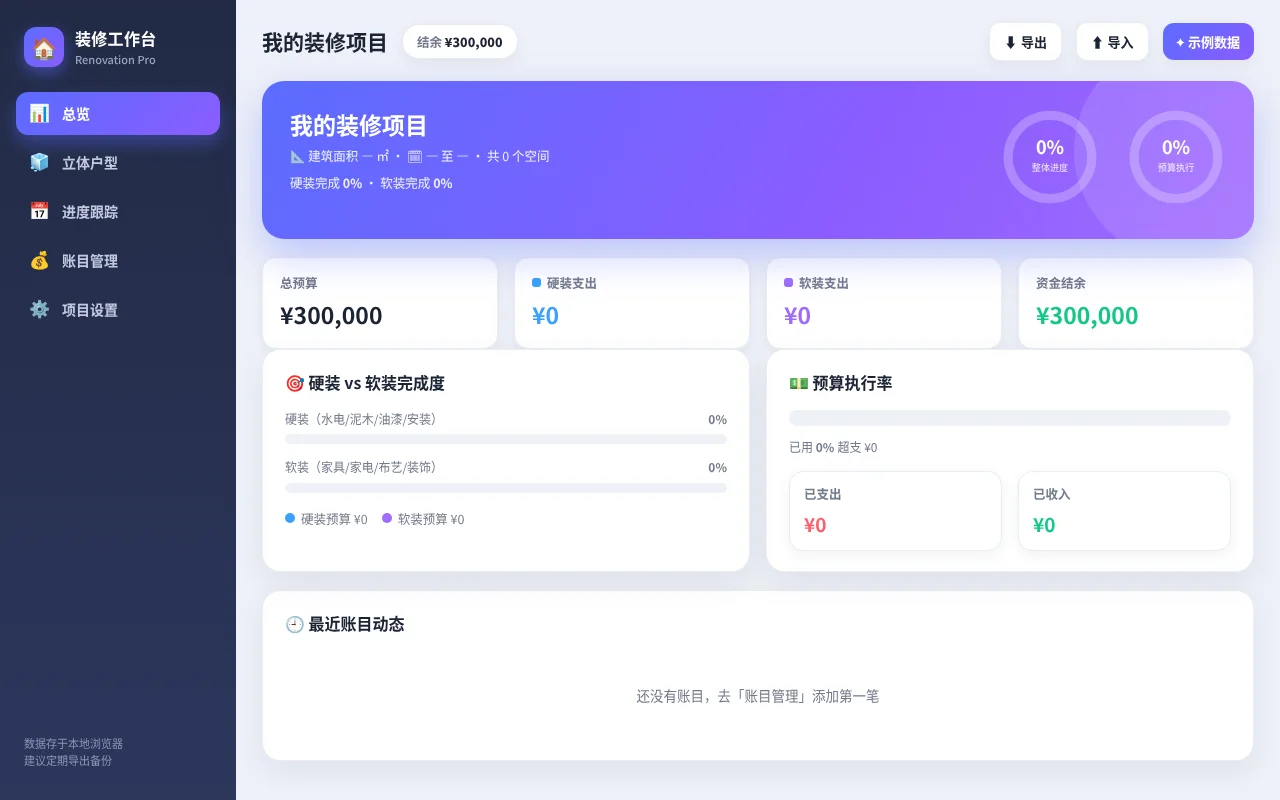
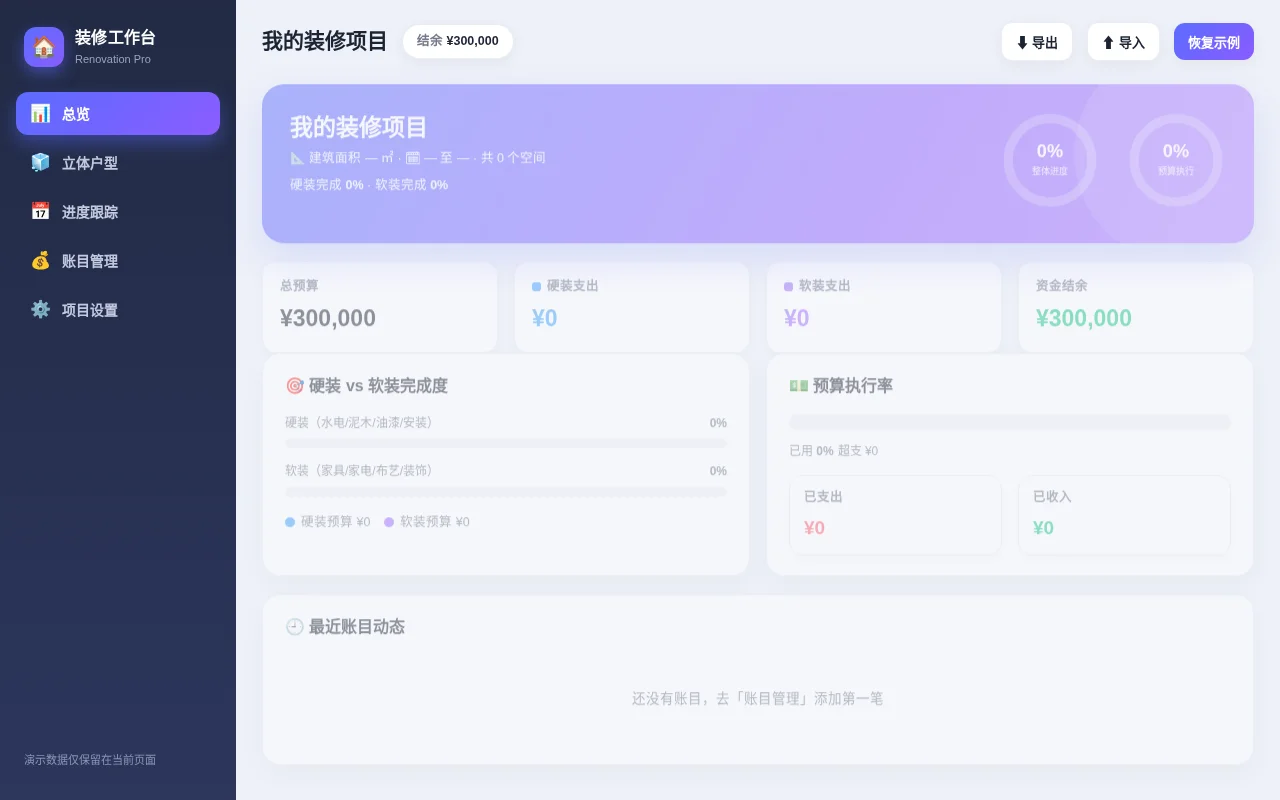
Add renovation workspace template

diff --git a/5d47b88f8fea9d546b5900fe/showcase/preview.html b/5d47b88f8fea9d546b5900fe/showcase/preview.html
@@ -128,7 +128,7 @@
     <button class="navbtn" data-p="progress" onclick="go('progress')"><span class="ni">📅</span>进度跟踪</button>
     <button class="navbtn" data-p="accounts" onclick="go('accounts')"><span class="ni">💰</span>账目管理</button>
     <button class="navbtn" data-p="settings" onclick="go('settings')"><span class="ni">⚙</span>项目设置</button>
-    <div class="side-foot">数据存于本地浏览器<br>建议定期导出备份</div>
+    <div class="side-foot">演示数据仅保留在当前页面</div>
   </aside>
 
   <main class="main">
